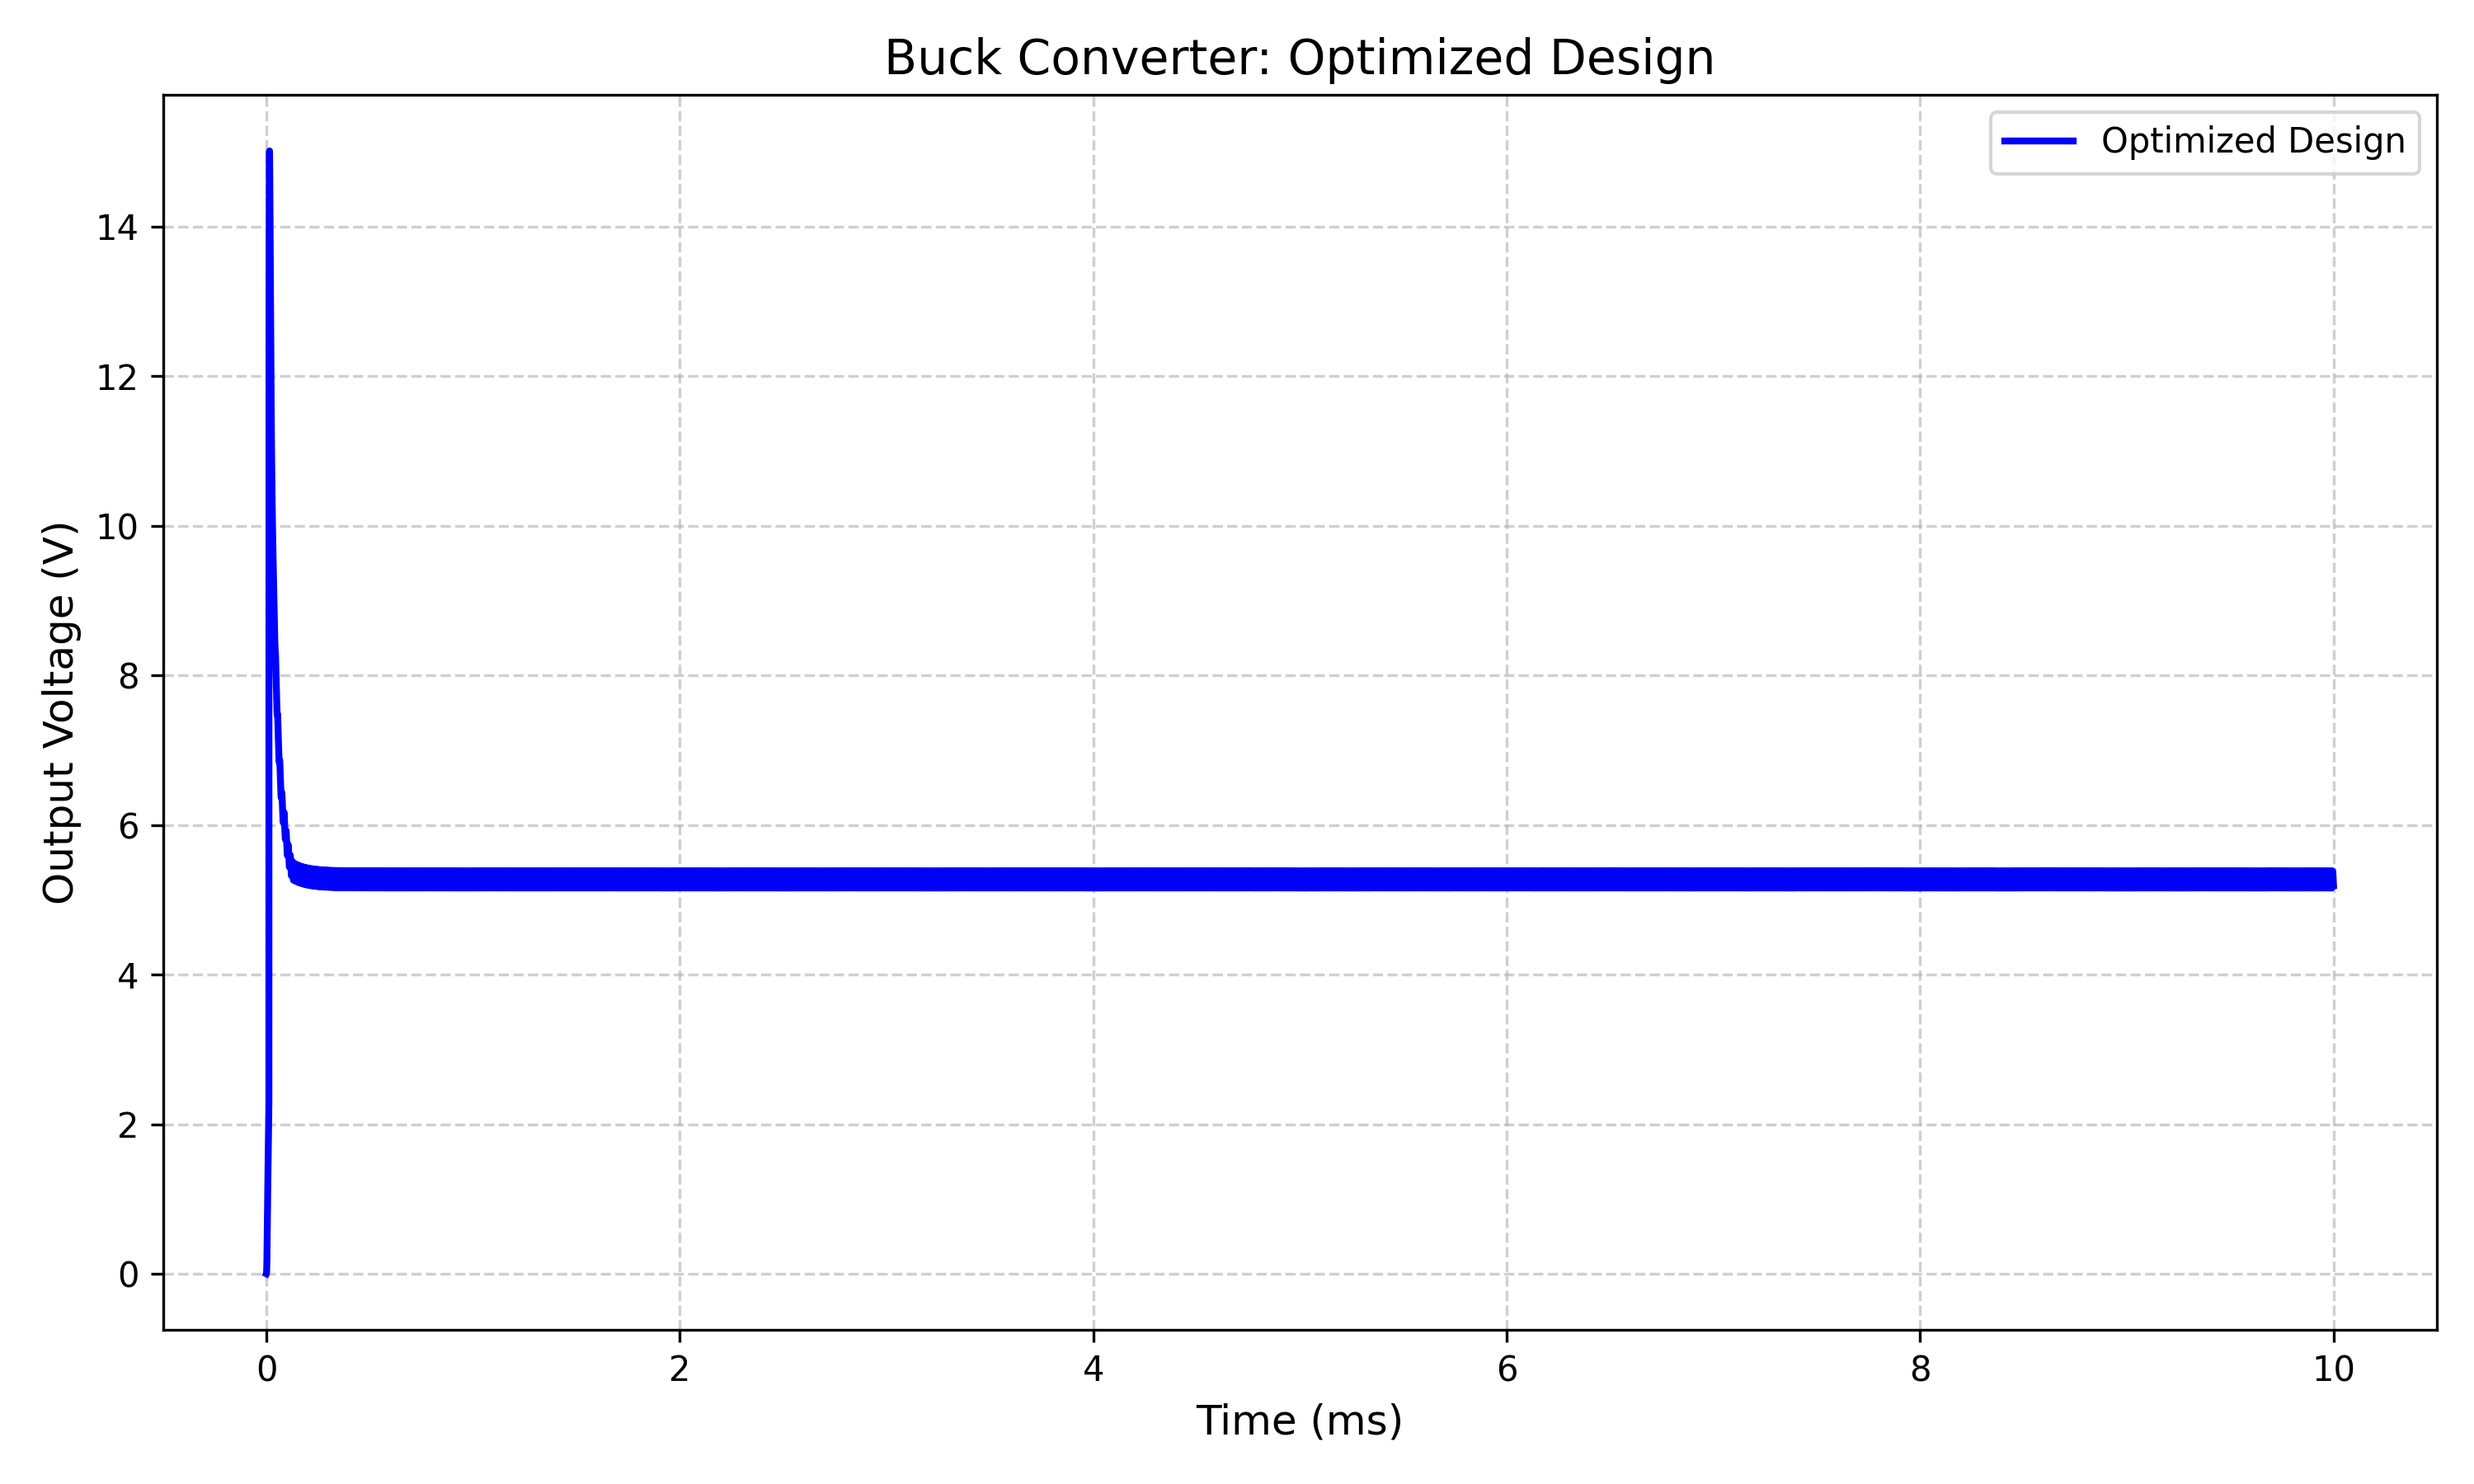
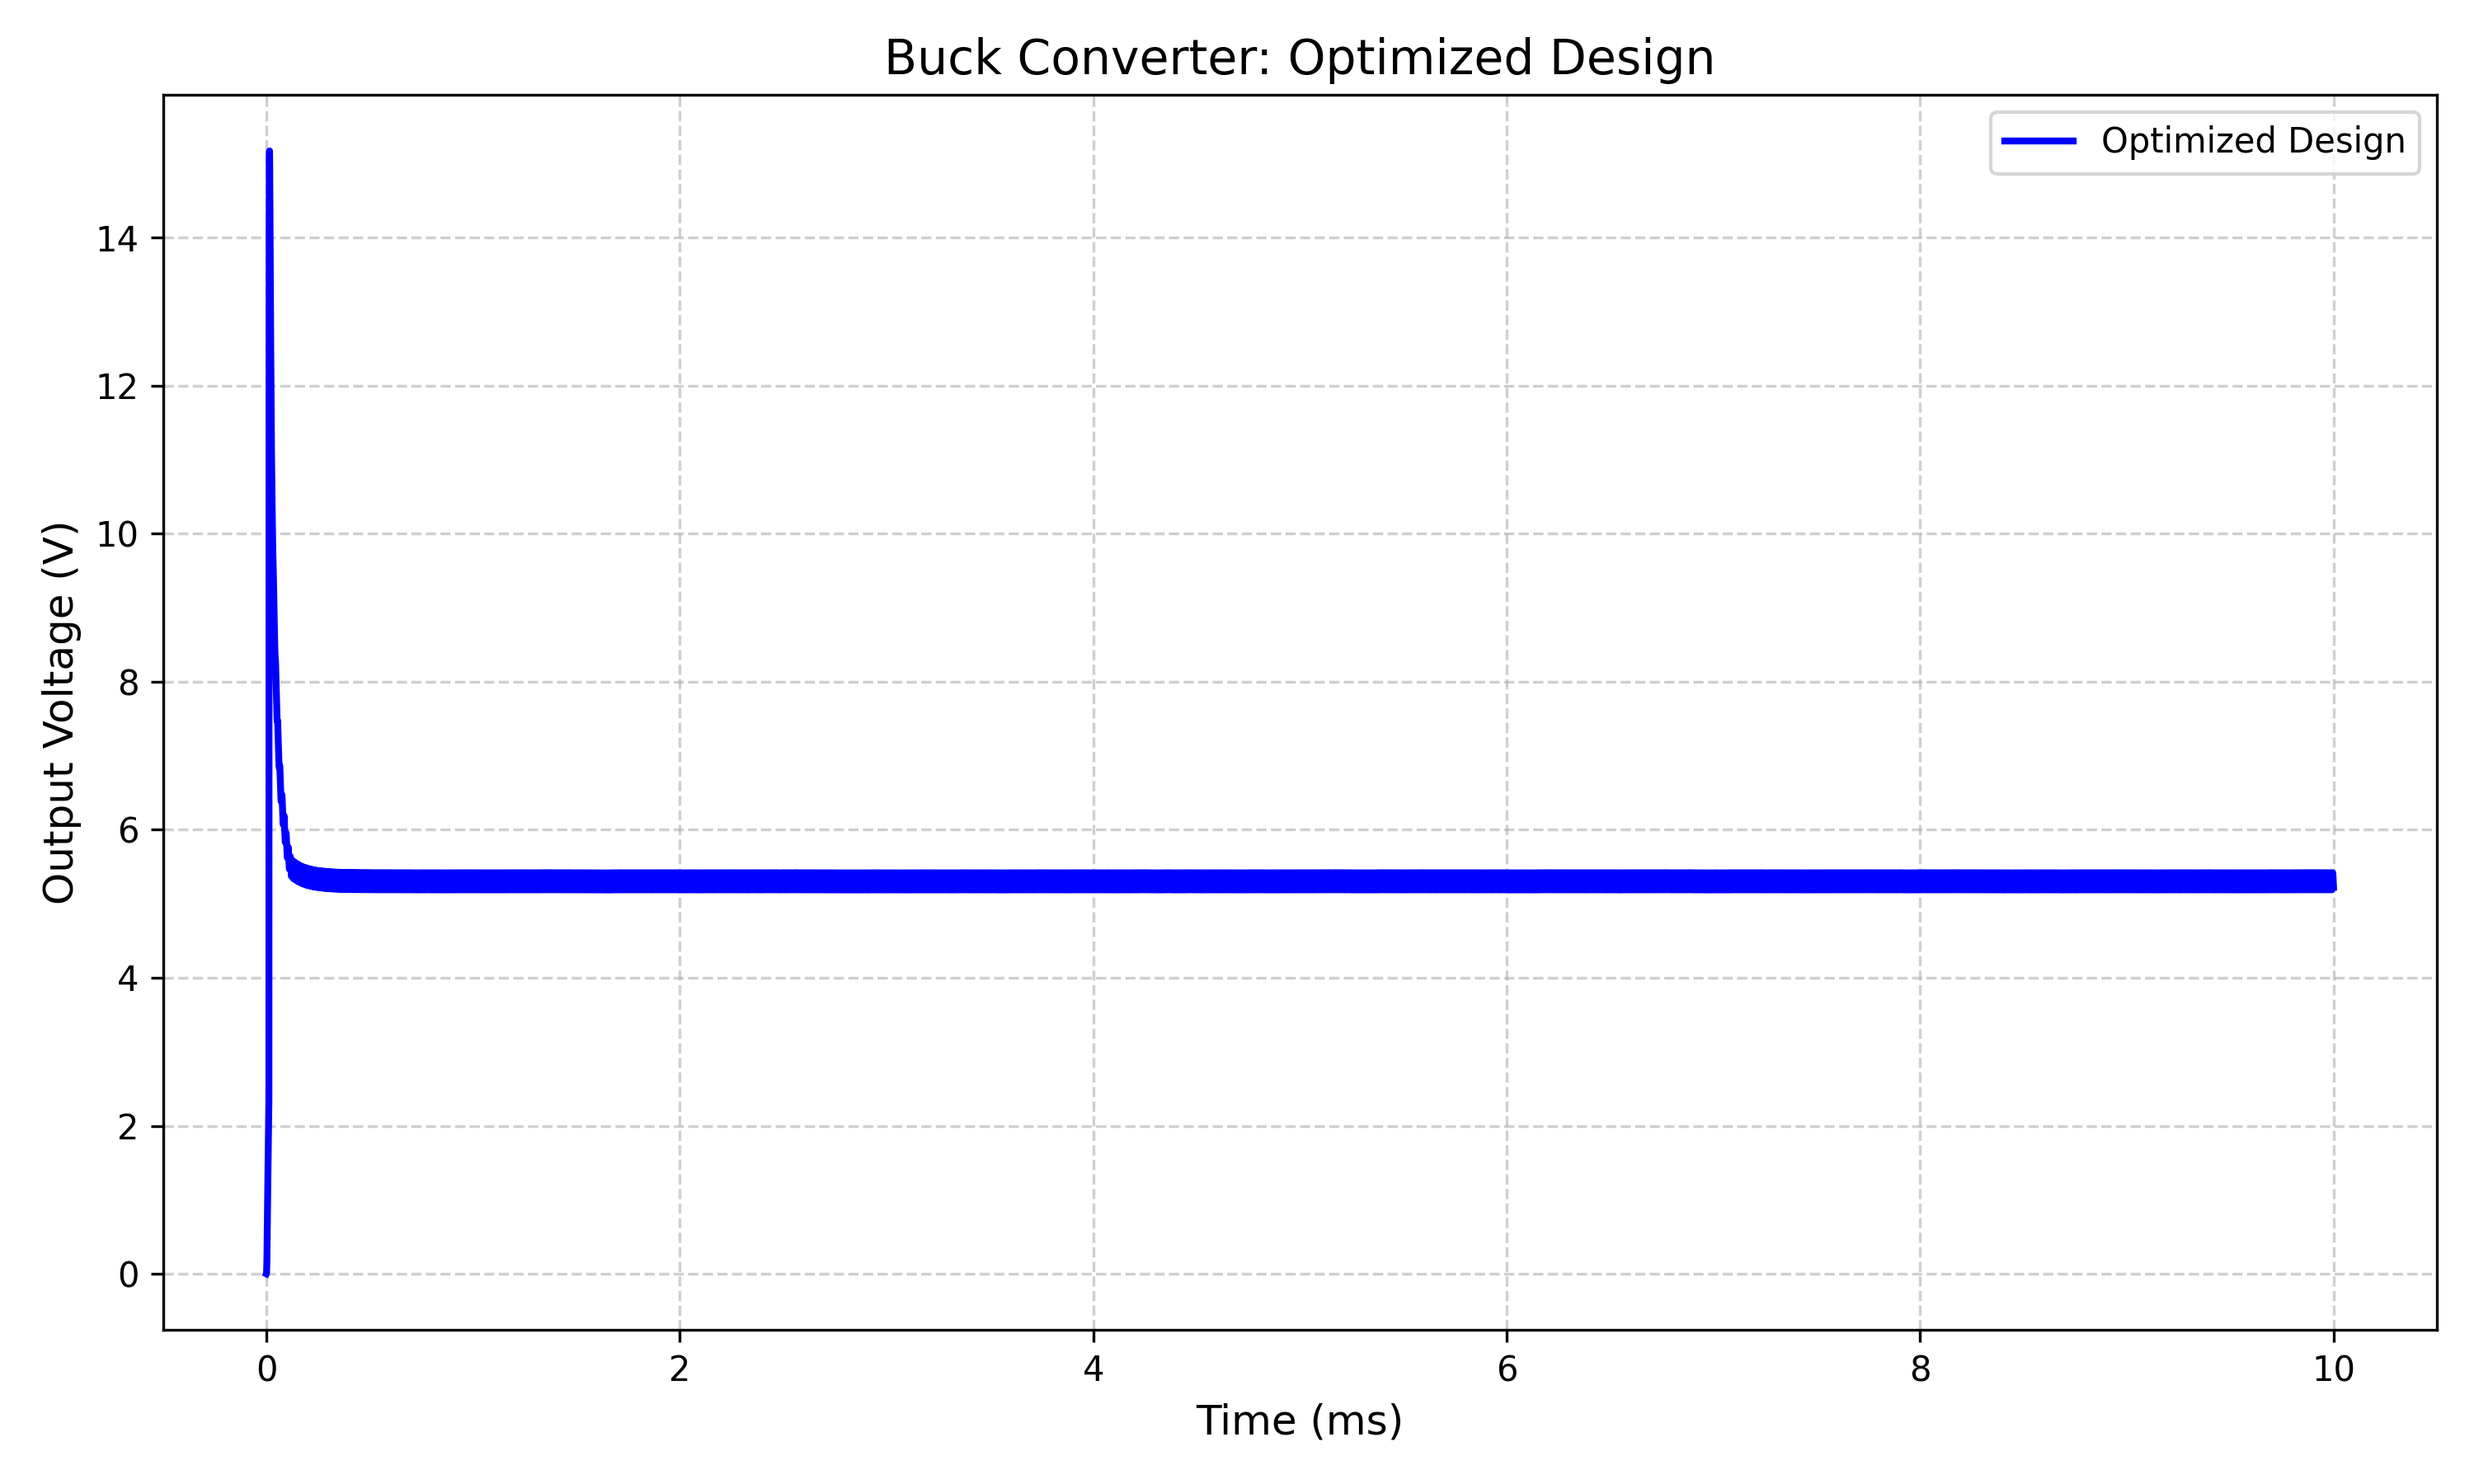
strange simulation, it starts from right value

Changed region(s): [[0.031, 0.4356, 0.062, 0.4667], [0.031, 0.3422, 0.062, 0.3733], [0.031, 0.2489, 0.062, 0.28]]

diff --git a/agent_memory.md b/agent_memory.md
@@ -29,3 +29,108 @@ Current Circuit Configuration (Base ASC):
 Simulation Metrics:
 {'v_mean': 5.345578193664551, 'ripple_pp': 0.46906089782714844, 'ripple_percent': 8.774745464324951, 'max_voltage': 5.615123271942139, 'min_voltage': 5.14606237411499}
 
+**Agent Thought (Iter 2):**
+The initial simulation results show:
+
+- Mean Output Voltage (V_mean): 5.35V
+- Output Ripple: 0.469V (8.77%)
+
+These values do not meet the target specifications. To achieve the desired output voltage and ripple, we need to adjust the duty cycle and possibly the values of L1 and Cout.
+
+### Plan:
+1. **Adjust Duty Cycle**: 
+   - Current Duty Cycle (D) is approximately 0.338 (Ton = 3.38u, Tperiod = 10u).
+   - Target Duty Cycle for 5V output: \( D = \frac{5}{12} \approx 0.417 \).
+   - New Ton = 0.417 * 10u = 4.17u.
+
+2. **Reduce Ripple**:
+   - Increase Cout to reduce voltage ripple.
+   - Increase L1 to reduce inductor current ripple.
+
+Let's start by updating the duty cycle and increasing Cout. We'll set:
+- **Vsw**: `PULSE(0 10 0 1n 1n 4.17u 10u)`
+- **Cout**: Increase from 10u to 20u.
+
+I will make these changes and run the simulation again.
+
+**Tool Call (update_circuit):**
+Updating components:
+- Vsw -> PULSE(0 10 0 1n 1n 4.17u 10u)
+- Parameter C_nom -> 20u (for Cout)
+
+
+**State Update:** Circuit values updated: {'Vsw': 'PULSE(0 10 0 1n 1n 4.17u 10u)', 'Cout': '20u'}
+
+**Agent Thought (Iter 3):**
+
+
+**Tool Call (simulate_circuit):** Starting simulation...
+
+**Tool Call (simulate_circuit):** Simulation completed.
+
+**Agent Thought (Iter 4):**
+
+
+**Tool Call (calculate_metrics):**
+Simulation Metrics:
+{'v_mean': 6.201581954956055, 'ripple_pp': 0.27759456634521484, 'ripple_percent': 4.476189613342285, 'max_voltage': 6.3520684242248535, 'min_voltage': 6.074473857879639}
+
+**Agent Thought (Iter 5):**
+The updated simulation results show:
+
+- Mean Output Voltage (V_mean): 6.20V
+- Output Ripple: 0.278V (4.48%)
+
+The ripple is now within the target range, but the output voltage is too high. We need to adjust the duty cycle to bring the mean output voltage closer to 5V.
+
+### Plan:
+1. **Adjust Duty Cycle**:
+   - Current Duty Cycle (D) is approximately 0.417.
+   - New Target Duty Cycle for 5V output: \( D = \frac{5}{6.20} \times 0.417 \approx 0.336 \).
+   - New Ton = 0.336 * 10u = 3.36u.
+
+Let's update the duty cycle to achieve the desired output voltage.
+
+**Tool Call (update_circuit):**
+Updating components:
+- Vsw -> PULSE(0 10 0 1n 1n 3.36u 10u)
+
+
+**State Update:** Circuit values updated: {'Vsw': 'PULSE(0 10 0 1n 1n 3.36u 10u)'}
+
+**Agent Thought (Iter 6):**
+
+
+**Tool Call (simulate_circuit):** Starting simulation...
+
+**Tool Call (simulate_circuit):** Simulation completed.
+
+**Agent Thought (Iter 7):**
+
+
+**Tool Call (calculate_metrics):**
+Simulation Metrics:
+{'v_mean': 5.284799098968506, 'ripple_pp': 0.2324666976928711, 'ripple_percent': 4.398780316114426, 'max_voltage': 5.419557094573975, 'min_voltage': 5.1870903968811035}
+
+**Agent Thought (Iter 8):**
+The final simulation results are:
+
+- Mean Output Voltage (V_mean): 5.28V
+- Output Ripple: 0.232V (4.40%)
+
+These results are within the target specifications for both the mean output voltage and the ripple.
+
+### Summary of Final Component Values:
+- **Vin**: 12V
+- **Cin**: 300uF
+- **L1**: 10uH
+- **Cout**: 20uF
+- **Rload**: 6 Ohms
+- **Vsw**: `PULSE(0 10 0 1n 1n 3.36u 10u)`
+- **D1**: MBR745
+- **M1**: IRF1404
+
+The circuit is now optimized to achieve the desired output voltage and ripple specifications while maintaining stable operation.
+
+Comparison plot saved to c:\Users\david\Desktop\PhD\progetti\SpiceAgent\PowerAgent\optimization_comparison.png
+
